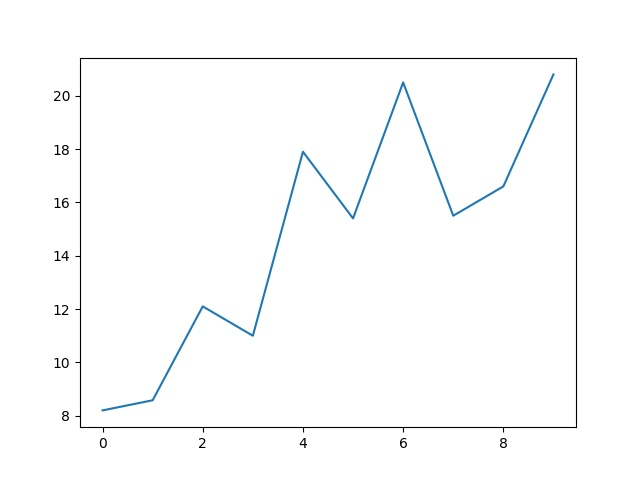
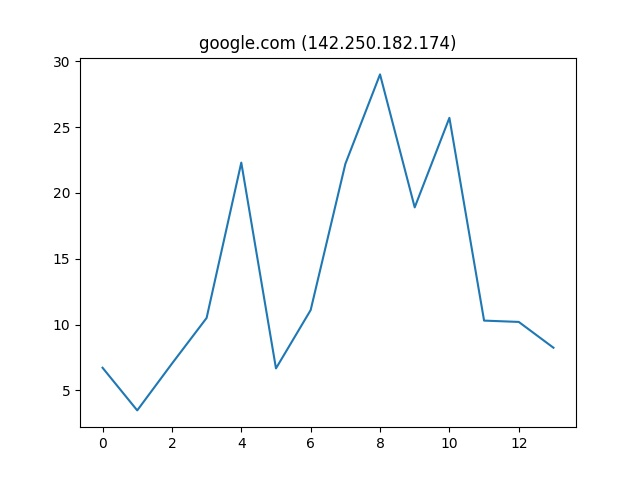
modified plot

diff --git a/Assignment-1/traceroute.py b/Assignment-1/traceroute.py
@@ -1,5 +1,4 @@
 # references:
-#   Learning by doing: Writing your own traceroute in 8 easy steps (Ksplice Blog)
 #   https://blogs.oracle.com/ksplice/entry/learning_by_doing_writing_your
 
 import sys
@@ -7,7 +6,7 @@ import socket
 import time
 import matplotlib.pyplot as plt
 
-MAX_HOPS = 30
+MAX_HOPS = 64
 # HOST = socket.gethostbyname(socket.gethostname())
 HOST = ''
 
@@ -45,8 +44,9 @@ def traceroute(dest_addr, max_hops=MAX_HOPS, timeout=0.2):
         if curr_addr == dest_addr:
             break
 
-def graph(data):
+def graph(data, dest_name, dest_addr):
     plt.plot(data)
+    plt.title(dest_name + " (" + dest_addr + ")")
     plt.savefig("output.jpg")
     plt.show()    
 
@@ -60,8 +60,8 @@ if __name__ == "__main__":
     
     for i, v in enumerate(traceroute(dest_addr)):
         print("{}\t{}\t\t{}".format(i+1, v[1], v[0]))
-        if(v[1] == "*"):
+        if(v[1] == "  *  "):
             data.append(0)
         else:
             data.append(float(v[1][:len(v[1])-2]))
-    graph(data)
+    graph(data, dest_name, dest_addr)
